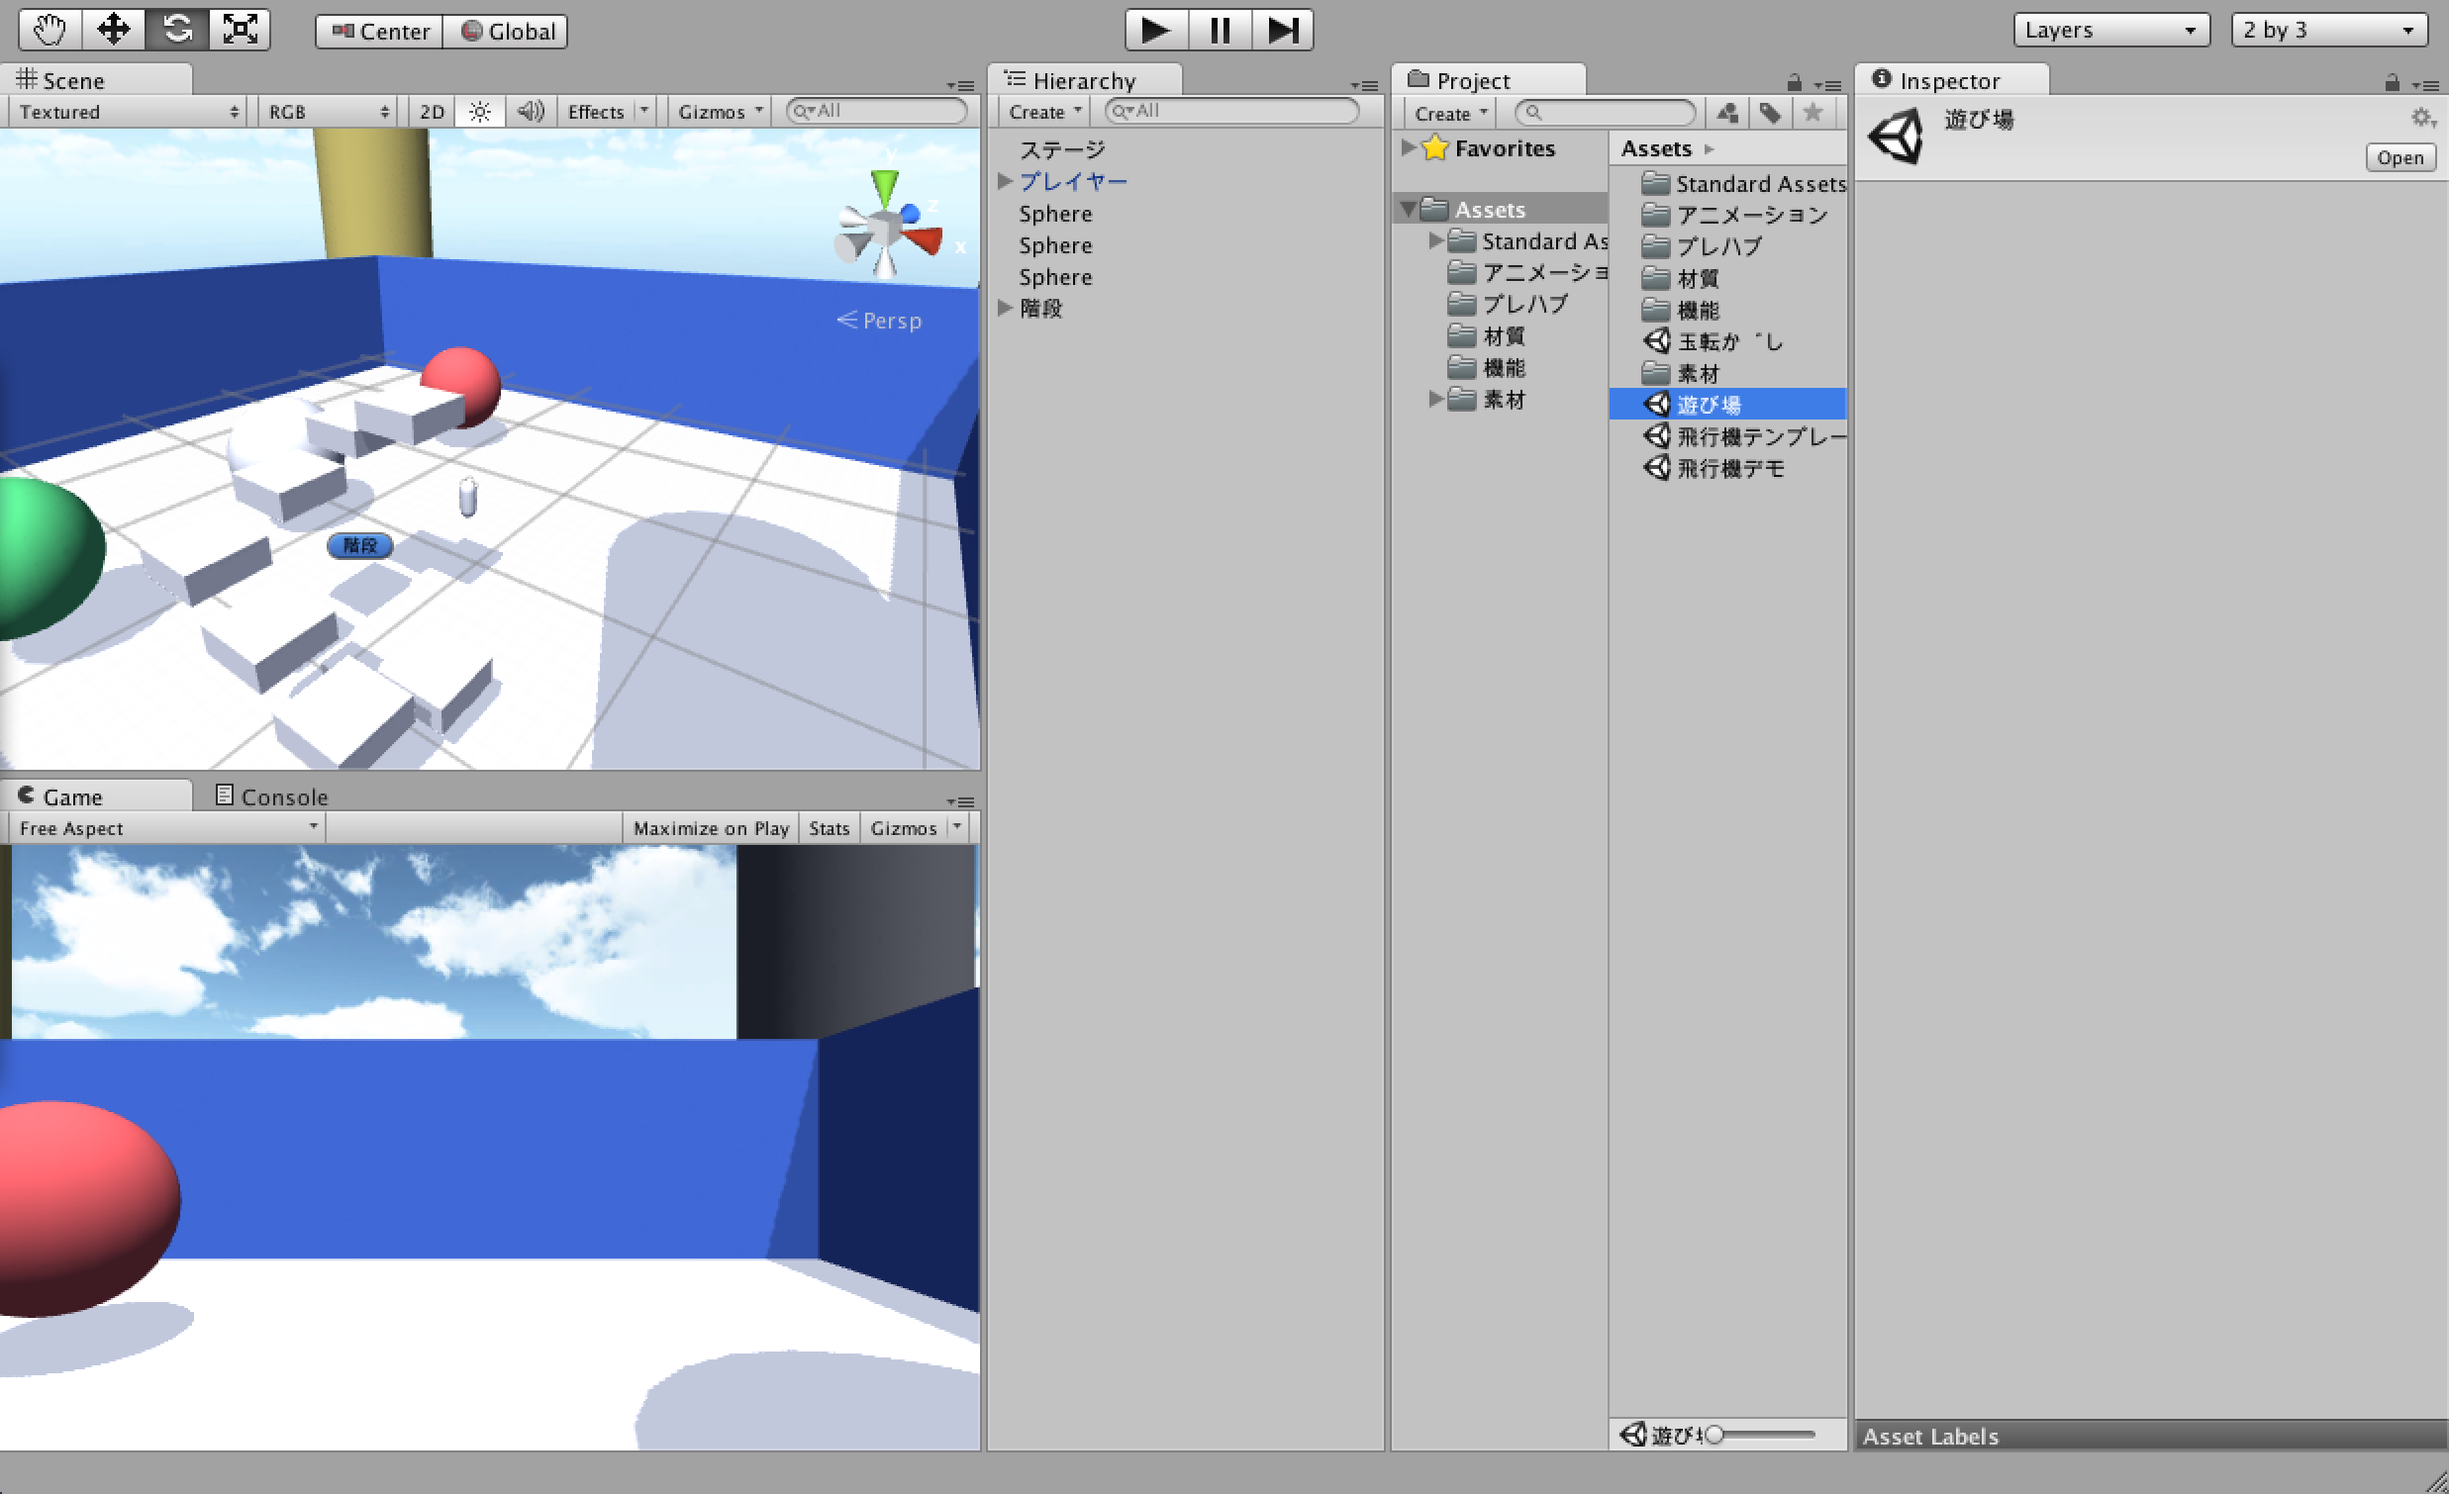
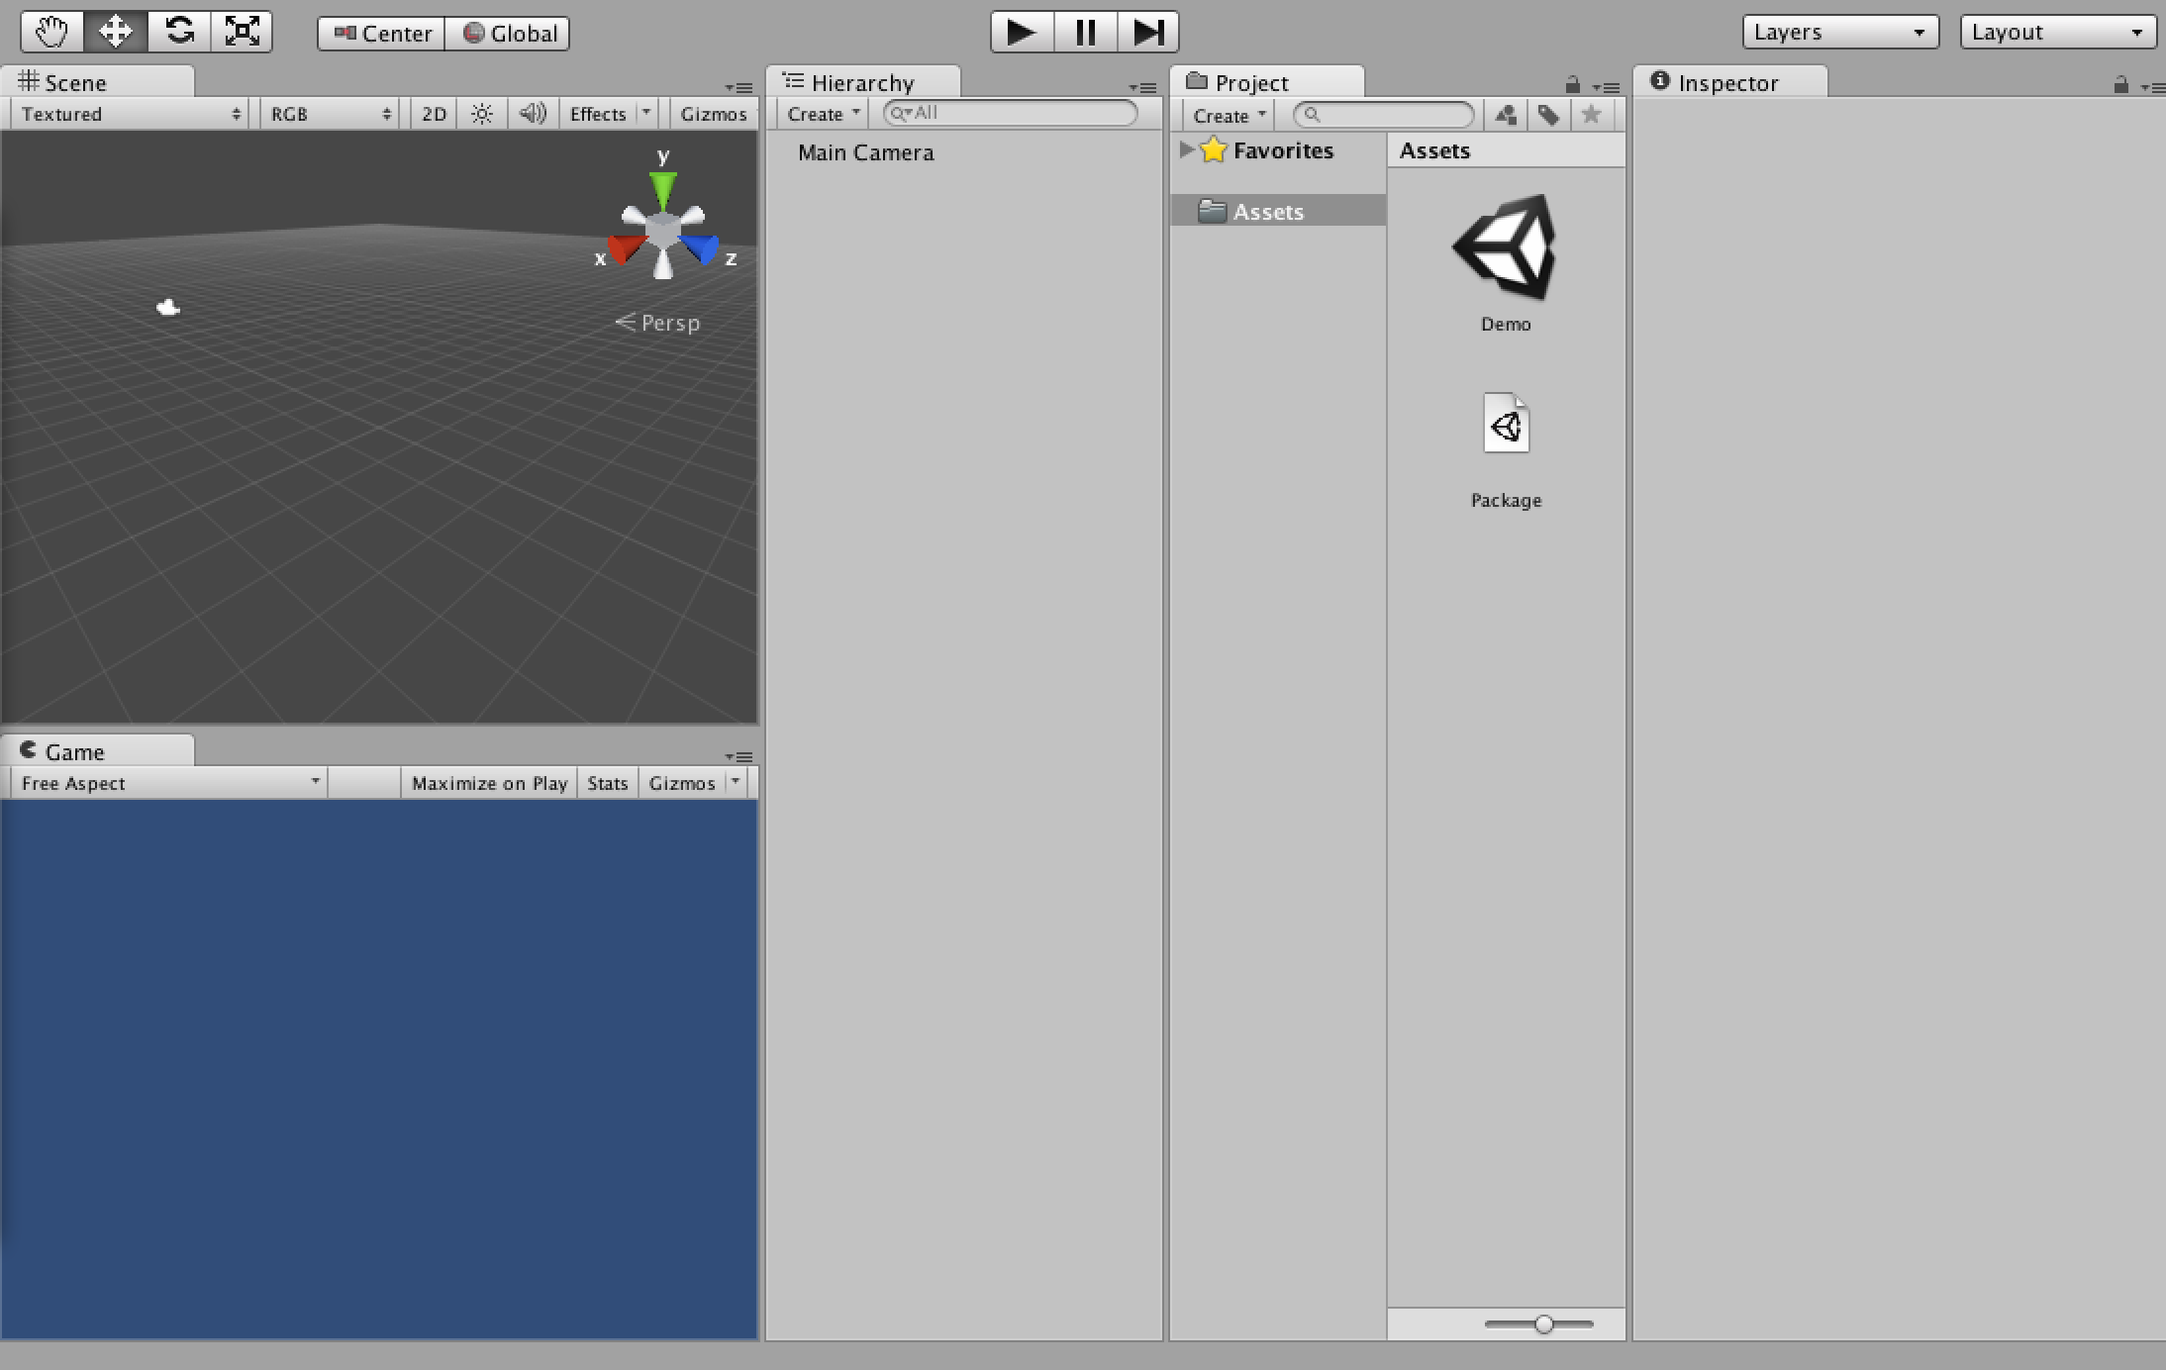
文字化け対策を追記

diff --git a/ドキュメント/1. 操作を覚えよう.md b/ドキュメント/1. 操作を覚えよう.md
@@ -4,16 +4,26 @@
 Unityのゲームを作る前に、一度Unity Editorの使い方に慣れよう。
 
 
-##プロジェクトの開き方
+##プロジェクトの作り方
 
+ゲームを最初から作成しましょう。
+
+  
 *  添付のZipファイルをダウンロードして展開します。
-*  展開したファイルを、C:¥Unity フォルダへ移動します。
-*  展開したファイルの中を確認し、Assets/遊び場.unity を開きます。
+*  展開したファイルを、C:¥Unityを作成し、そこへ解凍した移動します。 
+*  展開したファイルの中を確認し、Assets/Demo.unity を開きます。
 
 しばらくするとUnityエディタが起動し、以下の様な画面になります。
 
 ![起動画面](起動画面.png)
 
+次に、簡単に必要なファイルを追加します。
+
+画面の「Package」をダブルクリックします。次に、ダイアログ右下のImportをクリックします。
+
+![Packageの起動](Packageの起動.png)
+
+![アセットのインポート](アセットのインポート.png)
 
 画面の配置が一致しない人のため、画面を一致させます。
 
